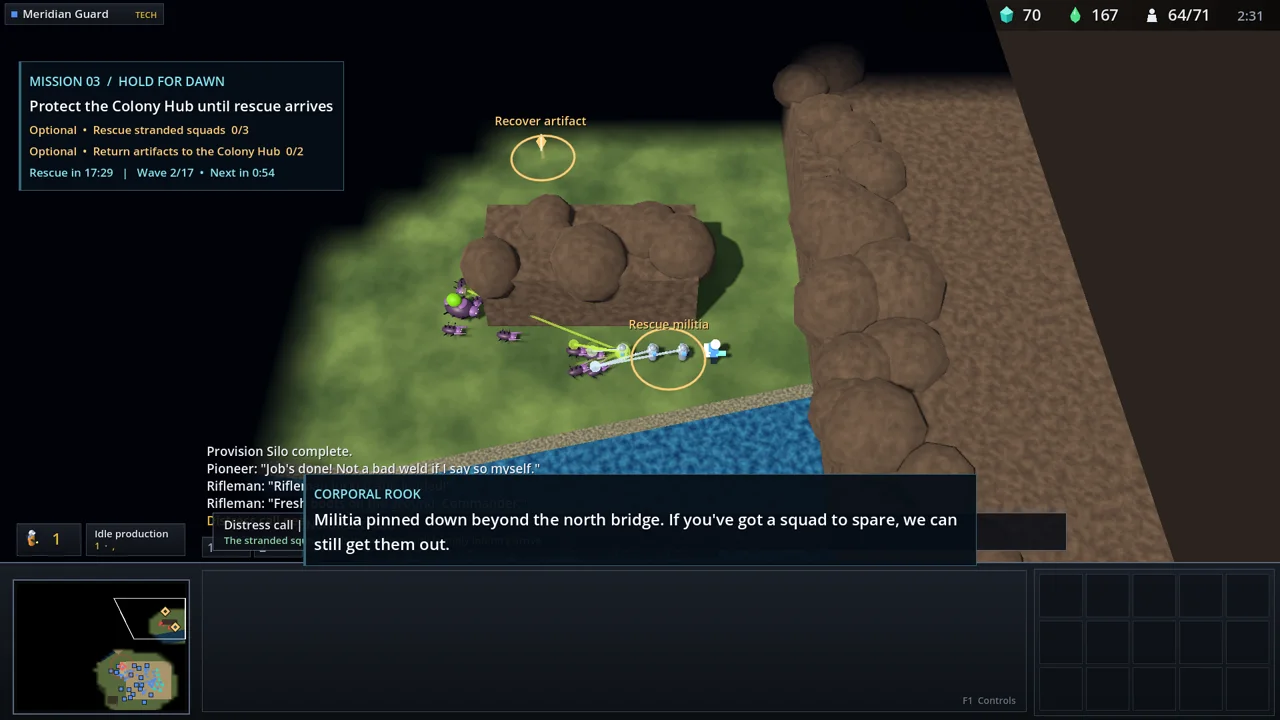
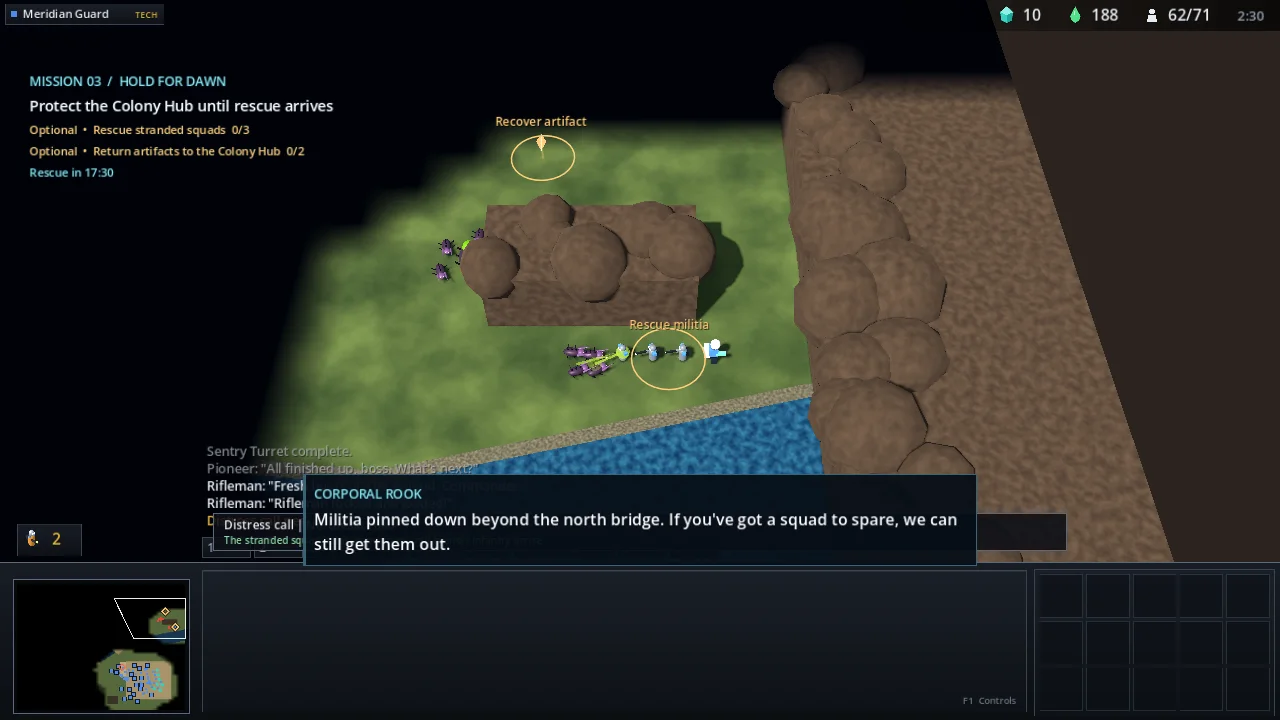
docs(rts): publish the 30 fps Hold for Dawn run

diff --git a/site/_blog/starfall-command-hold-for-dawn.html b/site/_blog/starfall-command-hold-for-dawn.html
@@ -16,8 +16,8 @@ og_image_alt: "Meridian Guard infantry and Sentry Turrets defend the Hold for Da
   <p>Starfall Command’s Ashfall Signal campaign opens with an infantry push through Vesper Gate, moves to a build-and-attack mission at White Ridge, and ends with <strong>Hold for Dawn</strong>. The last mission takes its shape from StarCraft II’s <em>Zero Hour</em>. The player starts with a garrisoned outpost and two river crossings. The transport comes when the 20-minute evacuation clock reaches zero, and the defense has to hold until it reaches the pad. <a href="https://www.furiouspaul.com/pc/starcraft2/">Zero Hour Brutal gameplay reference</a>.</p>
 
   <figure class="blog-fig video-embed">
-    <iframe src="https://www.youtube-nocookie.com/embed/HIQVYpns3Nc" title="Starfall Command: Hold for Dawn full mission victory" loading="lazy" referrerpolicy="strict-origin-when-cross-origin" allow="accelerometer; autoplay; clipboard-write; encrypted-media; gyroscope; picture-in-picture; web-share" allowfullscreen style="max-width:none;aspect-ratio:16/9"></iframe>
-    <figcaption>The complete Normal run takes 7:25 on video and finishes at 20:04 in game. The camera follows the expeditions, returns to the outpost for the fights, and follows the Rampart to the pad. <a href="https://www.youtube.com/watch?v=HIQVYpns3Nc">Watch on YouTube</a> · <a href="{{ '/assets/blog/starfall-command-hold-for-dawn/playthrough.vtt' | relative_url }}">Walkthrough captions</a></figcaption>
+    <iframe src="https://www.youtube-nocookie.com/embed/Mp0OXmVNEqU" title="Starfall Command: Hold for Dawn full mission victory" loading="lazy" referrerpolicy="strict-origin-when-cross-origin" allow="accelerometer; autoplay; clipboard-write; encrypted-media; gyroscope; picture-in-picture; web-share" allowfullscreen style="max-width:none;aspect-ratio:16/9"></iframe>
+    <figcaption>The complete Normal run takes 10:07 on video and finishes at 20:04 in game. The camera follows the bridge patrols and rescue expeditions, then returns for the final defense and the Rampart’s landing. The footage runs at 30 FPS with the live game at 2× speed. <a href="https://www.youtube.com/watch?v=Mp0OXmVNEqU">Watch on YouTube</a> · <a href="{{ '/assets/blog/starfall-command-hold-for-dawn/playthrough.vtt' | relative_url }}">Walkthrough captions</a></figcaption>
   </figure>
 
   <h2>A distress call you can come back to</h2>
@@ -35,16 +35,24 @@ og_image_alt: "Meridian Guard infantry and Sentry Turrets defend the Hold for Da
     </figure>
   </div>
 
+  <h2>Scout the crossings</h2>
+  <p>The objectives sit directly over the map, and the evacuation clock tells you when the transport is due. To see what is coming across the river, send a pair of Riflemen to patrol each bridge. The garrisons and the rest of the defense can stay in position.</p>
+  <figure class="blog-fig">
+    <img src="{{ '/assets/blog/starfall-command-hold-for-dawn/bridge-patrols.webp' | relative_url }}" alt="Two Riflemen patrol each bridge with both river crossings visible through the fog" loading="lazy" width="1280" height="720">
+    <figcaption>Patrols reveal the crossing with their own sight. The west bridge becomes actively visible as its pair approaches.</figcaption>
+  </figure>
+
   <h2>What the playthrough exercises</h2>
   <p>The commander runs the shipped campaign through the normal player-command API. Pioneers mine and pay for structures, idle repair crews keep the defenses working, and Muster Halls train Riflemen and Triage Specialists. Expeditions leave the defenders in place and return to the outpost after each rescue. The engine owns every enemy wave, the evacuation clock, and the victory check. The test records player orders and checks for zero manual simulation steps.</p>
-  <p>An early Normal attempt rescued all three squads and lost the Colony Hub with 40 seconds left. Long-range Brood artillery from several waves had accumulated at the same approach. The final schedule keeps the waves close together with fewer artillery units in each. The winning run held through all 17 waves, rescued all 12 militia, built 32 structures, and defeated 560 Brood units.</p>
-  <div class="blog-log"># From games/robos-rts, with Godot 4.3, Behave and ffmpeg available
-python run_cucumber_tests.py --realtime --speed=8 --record --tags=@hold_for_dawn</div>
+  <p>An early Normal attempt rescued all three squads and lost the Colony Hub with 40 seconds left. Long-range Brood artillery from several waves had accumulated at the same approach. The final schedule keeps the waves close together with fewer artillery units in each. The recorded victory held through all 17 waves, rescued all 12 militia, built 35 structures, and defeated 547 Brood units.</p>
+  <div class="blog-log"># From games/robos-rts on Windows, with Godot, Behave and FFmpeg with gfxcapture
+python run_cucumber_tests.py --realtime --speed=2 --record-window --tags=@hold_for_dawn</div>
 
   <div class="blog-links">
     <a href="{{ '/projects/robos-rts/#hold-for-dawn-rescue-guide' | relative_url }}">Hold for Dawn rescue guide</a>
     <a href="{{ '/games/robos-rts/docs/' | relative_url }}">Starfall Command docs</a>
     <a href="{{ '/blog/starfall-command-100-point-roadmap/' | relative_url }}">The 100-point roadmap</a>
     <a href="https://github.com/nddipiazza/robos/commit/1ee7dee34a239d49670f2a1839a8841e5086680f">Campaign and playthrough source</a>
+    <a href="https://github.com/nddipiazza/robos/commit/78ca831b00a00cc0451650c6aa47cac590eb88c9">HUD, patrol and recording changes</a>
   </div>
 </div>

diff --git a/docs/projects/robos-rts.md b/docs/projects/robos-rts.md
@@ -50,7 +50,7 @@ In **Skirmish**, pick a map, both factions, and a difficulty. AI profiles includ
 
 1. **Cut the Signal.** Start on the southeast road and follow it through the lower junction, town square and detention convoy to the relay headquarters at the top of the map. Keep Captain Vale alive and destroy the headquarters. Two groups of survivors join you along the route. Target all six propaganda statues to complete the optional objective.
 2. **The White Ridge Job.** Gather resources, train an army and attack the Directorate excavation. A Muster Hall with a completed Research Module can train Triage Specialists. Resource caches and the besieged militia outpost offer help along the way. Destroy the dig site's Hub, Hall and Workshop to expose the artifact, then send a soldier to collect it.
-3. **Hold for Dawn.** Defend two bridges and cover the river against airborne Gnarl Brood. The rescue transport enters when the 20:00 evacuation clock reaches zero and must reach the landing pad. As optional objectives, rescue three militia squads and bring both field artifacts back to the Colony Hub.
+3. **Hold for Dawn.** Defend two bridges and cover the river against airborne Gnarl Brood. The rescue transport enters when the 20:00 evacuation clock reaches zero and must reach the landing pad. As optional objectives, rescue three militia squads and bring both field artifacts back to the Colony Hub. The HUD shows the evacuation clock and objectives over the battlefield. Watch your approaches to spot incoming waves.
 
 The three battlefields measure 132×153, 140×152 and 168×161 Starfall world units. The first two maps use walkable terrain outlines to keep squads on the roads, plazas and paths between them. The defense map puts the outpost on the southeast plateau with two diagonal river crossings.
 
@@ -85,7 +85,7 @@ The militia calls come at the same point on the evacuation clock on every diffic
 
 Each squad trades fire with nearby Brood until friendly ground troops reach its position. The stranded militia survive the staged fight and join your army on contact. A soldier already at a beacon can recruit them as soon as they appear. The new recruits move toward your nearest rescuer and get six game seconds of cover to withdraw. Give them a route back to the bunkers before that cover expires.
 
-Keep Riflemen in both starting bunkers, leave idle Pioneers nearby for Auto-Repair, and build extra Sentry Turrets to cover the river and landing pad. Take Triage Specialists with the rescue expeditions. The later rescue sites have heavier escorts on Hard and Brutal. Waves get closer together in the final minutes, and on Brutal a destructible tunnel opens with 3:45 remaining. Hold for Dawn runs at 1× on Casual and Normal, 1.2× on Hard, and 1.4× on Brutal. Those speeds affect wall-clock time while the evacuation clock and distress milestones use game time.
+Keep Riflemen in both starting bunkers, leave idle Pioneers nearby for Auto-Repair, and build extra Sentry Turrets to cover the river and landing pad. Use **P**, then click the terrain to patrol, and send two Riflemen per bridge to scout the crossings. Take Triage Specialists with the rescue expeditions. The later rescue sites have heavier escorts on Hard and Brutal. Waves get closer together in the final minutes, and on Brutal a destructible tunnel opens with 3:45 remaining. Hold for Dawn runs at 1× on Casual and Normal, 1.2× on Hard, and 1.4× on Brutal. Those speeds affect wall-clock time while the evacuation clock and distress milestones use game time.
 
 See the [recorded playthrough]({{ '/blog/starfall-command-hold-for-dawn/' | relative_url }}) for the opening build, all three rescues, and the Rampart touchdown.
 
@@ -175,11 +175,11 @@ python run_cucumber_tests.py --realtime --tags=@performance
 
 The live suite uses the map editor to modify, save and reload each map, then starts a paused F5 playtest and checks the standard opening. A player-side controller builds Rush, Siege or Economy through paid commands against the built-in opponent. Only the live frame clock advances time: the live SDK rejects `/step`, and the engine reports a counter proving no manual step requests occurred. Matches must reach an actual structure-elimination result, including the unattended-player defeat case. The deterministic suite remains useful for smaller mechanics fixtures.
 
-`--record` needs ffmpeg and a rendered game; `--show-window` displays the test window on Windows, and `--keep-open` leaves it at the result for manual play through F8. Each run writes its authored map, action log, game-state samples, frame timings and, when rendered, a result screenshot under `tests/e2e/reports/realtime/`. Recording adds a captioned MP4 and WebVTT. Finished artifacts are also archived in `~/.robos/development/walkthroughs/rts-live-<scenario>/`, with timestamped history. The proof records both requested speed and achieved game seconds per wall second.
+`--record` needs FFmpeg and a rendered game. On Windows, use `--realtime --speed=2 --record-window` with an FFmpeg build that includes `gfxcapture` for continuous 720p30 video. It records the isolated game window while the simulation runs. `--show-window` brings the test window on-screen, and `--keep-open` leaves it at the result for manual play through F8. Each run writes its authored map, action log, game-state samples, frame timings and, when rendered, a result screenshot under `tests/e2e/reports/realtime/`. Recording adds an MP4 and WebVTT captions. Finished artifacts are also archived in `~/.robos/development/walkthroughs/rts-live-<scenario>/`, with timestamped history. The proof records both requested speed and achieved game seconds per wall second.
 
 Real-time simulation retains fixed 64 Hz ticks but yields after an 8 ms frame budget, allowing input and drawing during fast-forward overload. Requested 8× playback can run slower when CPU capacity is exhausted. Static terrain, decoration and unlimited crystal facets are combined in spatial chunks; human units use shared MultiMesh batches. Offscreen units and combat effects are culled conservatively, and effect allocation is capped. Static minimap terrain/resources render once into a cached viewport, while unit markers and camera bounds remain live. Navigation smoothing uses bounded visibility searches, steering reuses each tick's nearby-unit query, target acquisition searches hostile spatial grids, and harvesting uses cached town-hall/extractor links.
 
-The control server buffers incomplete requests and partial responses without sleeping on the frame thread. Capture encoding runs on a worker when `/screenshot` receives `"async":true`; `/capture` reports completion. Live recording uses JPEG frames to avoid PNG encoding stalls, while screenshots can still use PNG. GPU readback remains on the frame thread and is measured separately. `GET /performance` reports frame percentiles, simulation/HUD time, rendering draw counts, navigation/steering totals and readback cost. The responsiveness feature checks that incomplete clients and asynchronous PNG encoding keep the live clock moving without a 100 ms frame stall. `tests/e2e/performance_probe.py --warmup=180 --speed=1` measures normal play after a paid army build. `tests/test_render_batches.gd` verifies constant body batch counts from one to eighty units and prevents geometry accumulating across map reloads within one frame.
+The control server buffers incomplete requests and partial responses without sleeping on the frame thread. Capture encoding runs on a worker when `/screenshot` receives `"async":true`, and `/capture` reports completion. The `--record` workflow samples JPEG screenshots, which still require GPU readback on the frame thread. `--record-window` records continuously in a separate FFmpeg process. `GET /performance` reports frame percentiles, simulation/HUD time, rendering draw counts, navigation/steering totals and readback cost. The responsiveness feature checks that incomplete clients and asynchronous PNG encoding keep the live clock moving without a 100 ms frame stall. `tests/e2e/performance_probe.py --warmup=180 --speed=1` measures normal play after a paid army build. `tests/test_render_batches.gd` verifies constant body batch counts from one to eighty units and prevents geometry accumulating across map reloads within one frame.
 
 ### Verified run: October 23, 2026
 
